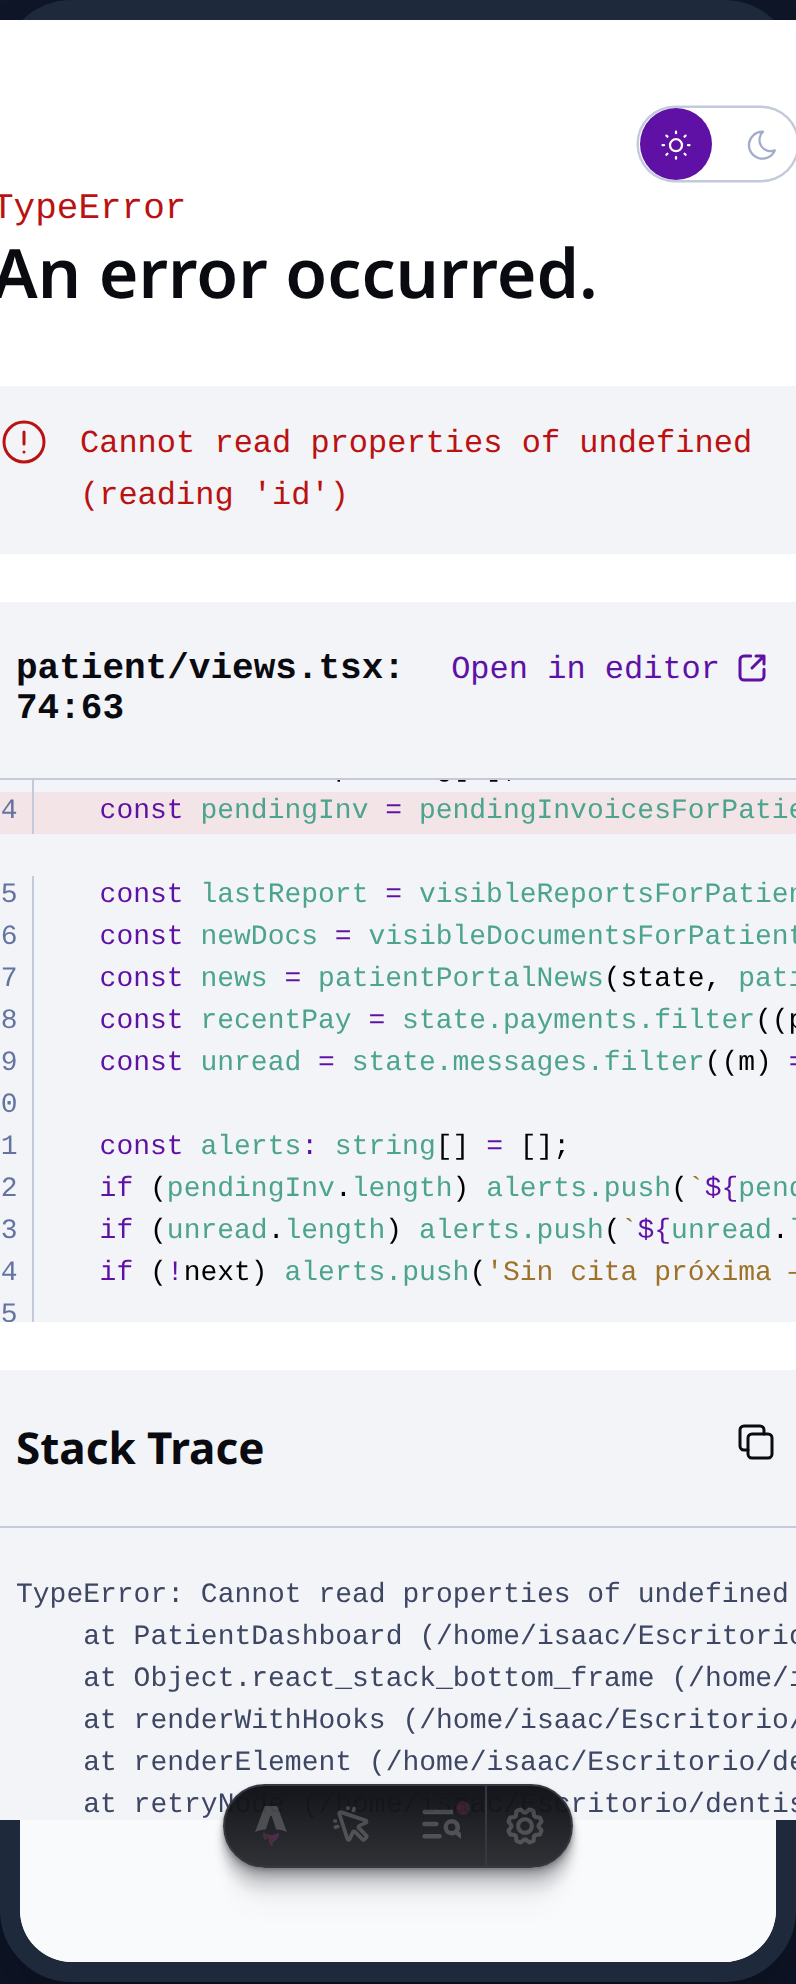
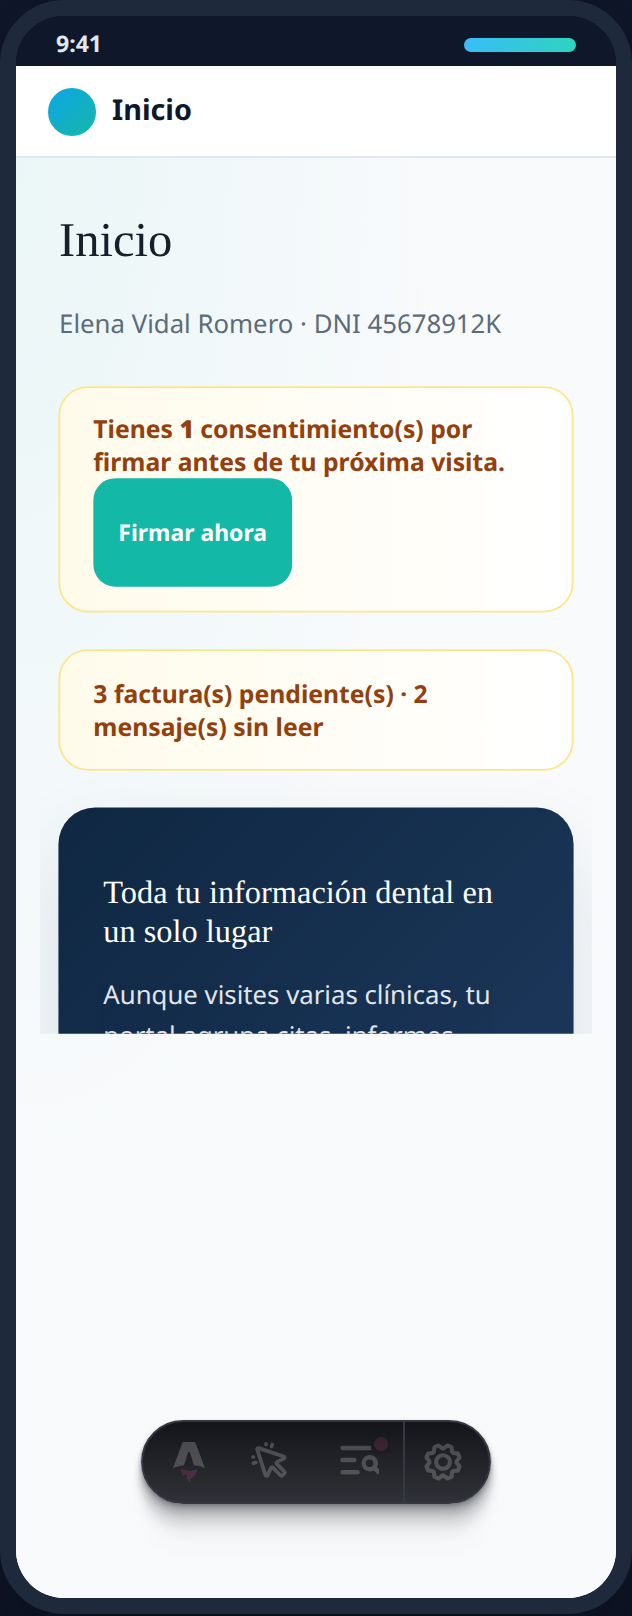
fix: capturas ayuda móvil sin errores y marco más compacto

diff --git a/src/components/guide/GuideScreenshotStudio.tsx b/src/components/guide/GuideScreenshotStudio.tsx
@@ -1,4 +1,4 @@
-import { useEffect, type ReactNode } from 'react';
+import { useLayoutEffect, useState, type ReactNode } from 'react';
 import { demoSeed } from '@/data/demoData';
 import { NoticeProvider } from '@/hooks/useNotice';
 import { PatientAppointments, PatientDashboard, PatientInvoices, PatientReports } from '@/components/patient/views';
@@ -12,12 +12,10 @@ import { TENANT_CENTRO } from '@/lib/tenantIds';
 
 const PATIENT_ID = 'PAT-0001';
 
-function SeedStorage() {
-  useEffect(() => {
-    localStorage.setItem(STORAGE_PATIENT_ID, PATIENT_ID);
-    localStorage.setItem(STORAGE_TENANT_ID, TENANT_CENTRO);
-  }, []);
-  return null;
+function seedGuideStorage() {
+  if (typeof window === 'undefined') return;
+  localStorage.setItem(STORAGE_PATIENT_ID, PATIENT_ID);
+  localStorage.setItem(STORAGE_TENANT_ID, TENANT_CENTRO);
 }
 
 const scenes: Record<string, { node: ReactNode }> = {
@@ -36,14 +34,23 @@ const scenes: Record<string, { node: ReactNode }> = {
 
 /** Contenido interior del marco móvil (el marco HTML está en guia-capturas.astro). */
 export function GuideScreenshotStudio({ scene }: { scene: string }) {
+  const [ready, setReady] = useState(false);
   const entry = scenes[scene] ?? scenes['pdp-inicio'];
   const portalClass =
     scene.startsWith('admin') ? 'portal portal--admin guide-shot-portal' : 'portal portal--patient guide-shot-portal';
 
+  useLayoutEffect(() => {
+    seedGuideStorage();
+    setReady(true);
+  }, []);
+
+  if (!ready) {
+    return <div className="guide-shot-placeholder" aria-hidden />;
+  }
+
   return (
     <GuideDemoStoreProvider initialState={demoSeed}>
       <NoticeProvider>
-        <SeedStorage />
         <div className={portalClass}>
           <main className="guide-shot-body portal-body portal-body--admin">{entry.node}</main>
         </div>

diff --git a/src/styles/dental-saas.css b/src/styles/dental-saas.css
@@ -5181,41 +5181,69 @@ a.cp-channel:hover {
 }
 
 .guide-docs__gallery {
-  display: grid;
-  gap: 1.25rem;
-  margin: 1rem 0 1.25rem;
-}
-
-@media (min-width: 768px) {
-  .guide-docs__gallery {
-    grid-template-columns: repeat(2, 1fr);
-  }
+  display: flex;
+  flex-wrap: wrap;
+  justify-content: center;
+  gap: 1.75rem 2rem;
+  margin: 1.25rem auto 1.5rem;
+  max-width: 52rem;
+  padding: 0.5rem 0;
 }
 
 .guide-docs__shot {
   margin: 0;
+  width: 100%;
+  max-width: 17.5rem;
+  flex: 0 1 17.5rem;
 }
 
 .guide-docs__phone {
-  border-radius: 1.75rem;
-  padding: 0.65rem;
+  margin: 0 auto;
+  max-width: 15.5rem;
+  border-radius: 1.5rem;
+  padding: 0.4rem;
   background: linear-gradient(160deg, #1e293b, #0f172a);
-  box-shadow: 0 16px 40px rgba(15, 23, 42, 0.2);
+  box-shadow: 0 10px 28px rgba(15, 23, 42, 0.18);
 }
 
 .guide-docs__phone img {
   display: block;
   width: 100%;
   height: auto;
-  border-radius: 1.25rem;
-  border: 2px solid rgba(255, 255, 255, 0.12);
+  max-height: 22rem;
+  object-fit: contain;
+  object-position: top center;
+  border-radius: 1.1rem;
+  border: 1px solid rgba(255, 255, 255, 0.1);
+  background: #f8fafc;
 }
 
 .guide-docs__shot figcaption {
-  margin-top: 0.5rem;
-  font-size: 0.82rem;
+  margin-top: 0.65rem;
+  padding: 0 0.25rem;
+  font-size: 0.8rem;
   color: var(--muted);
   line-height: 1.45;
+  text-align: center;
+}
+
+@media (min-width: 768px) {
+  .guide-docs__gallery {
+    justify-content: flex-start;
+  }
+
+  .guide-docs--rich .guide-docs__section {
+    padding: 1.5rem 1.75rem;
+  }
+}
+
+.help-center__body .guide-docs {
+  max-width: 56rem;
+  margin-inline: auto;
+}
+
+.help-center__body .guide-docs__section {
+  margin-inline: auto;
 }
 
 .guide-docs__steps-block {

diff --git a/src/hooks/usePatient.ts b/src/hooks/usePatient.ts
@@ -1,7 +1,18 @@
-import { useEffect, useState } from 'react';
+import { useEffect, useMemo, useState } from 'react';
+import { DEMO_PATIENT_LOGIN_ID } from '@/data/demoData';
 import { getStoredPatientId } from '@/lib/demoStore';
 import { STORAGE_PATIENT_ID } from '@/lib/storage/keys';
+import type { Patient } from '@/types/demo';
 import { useDemoStore } from './useDemoStore';
+
+const FALLBACK_PATIENT: Patient = {
+  id: DEMO_PATIENT_LOGIN_ID,
+  fullName: 'Paciente',
+  email: '',
+  phone: '',
+  reminderChannels: ['email'],
+  createdAt: '2026-01-01'
+};
 
 export function usePatient() {
   const { state } = useDemoStore();
@@ -22,6 +33,13 @@ export function usePatient() {
     })();
   }, []);
 
-  const id = overrideId ?? getStoredPatientId();
-  return state.patients.find((p) => p.id === id) ?? state.patients[0];
+  return useMemo(() => {
+    const id = (overrideId ?? getStoredPatientId()) || DEMO_PATIENT_LOGIN_ID;
+    return (
+      state.patients.find((p) => p.id === id) ??
+      state.patients.find((p) => p.id === DEMO_PATIENT_LOGIN_ID) ??
+      state.patients[0] ??
+      FALLBACK_PATIENT
+    );
+  }, [state.patients, overrideId]);
 }
